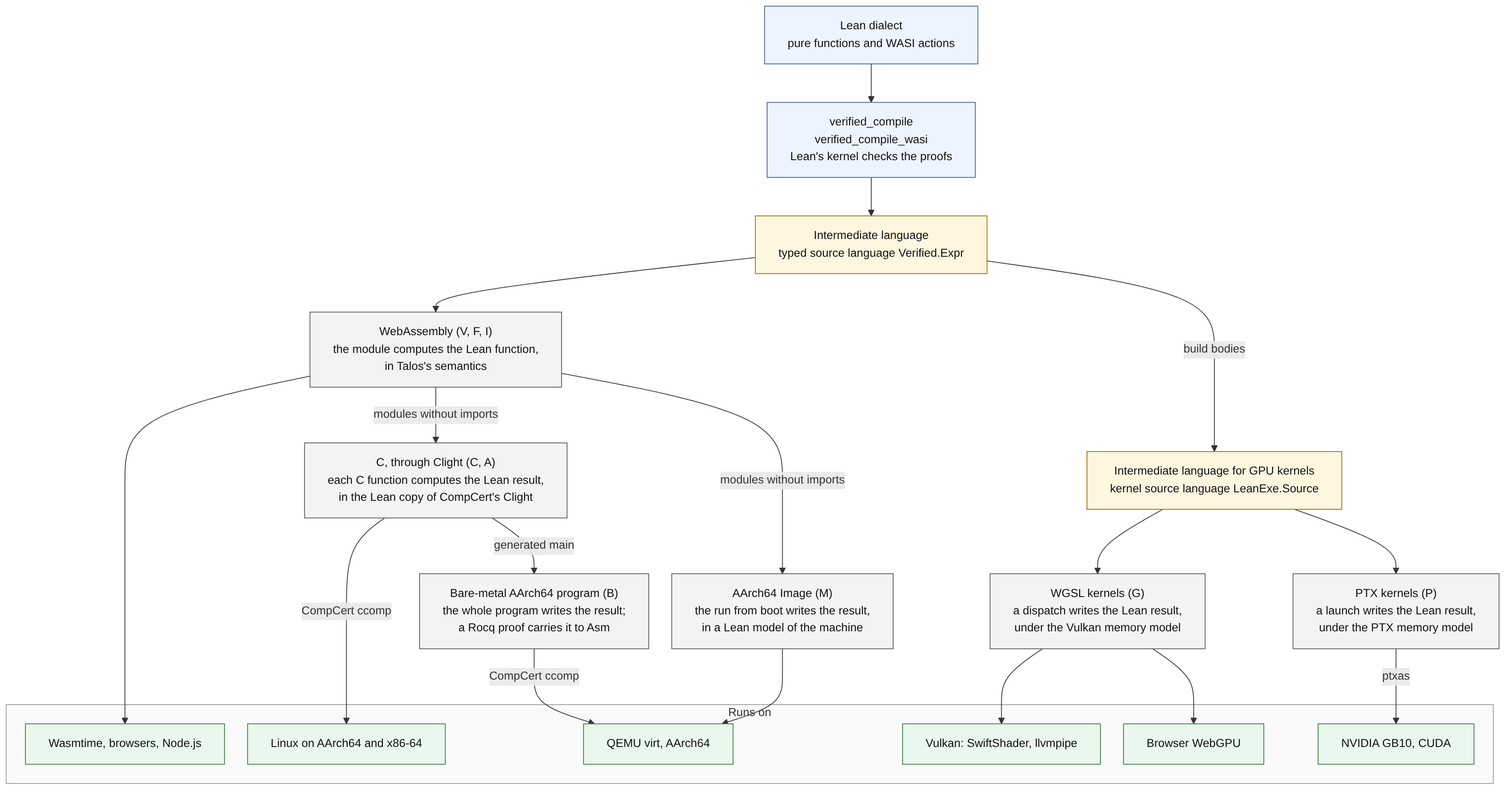
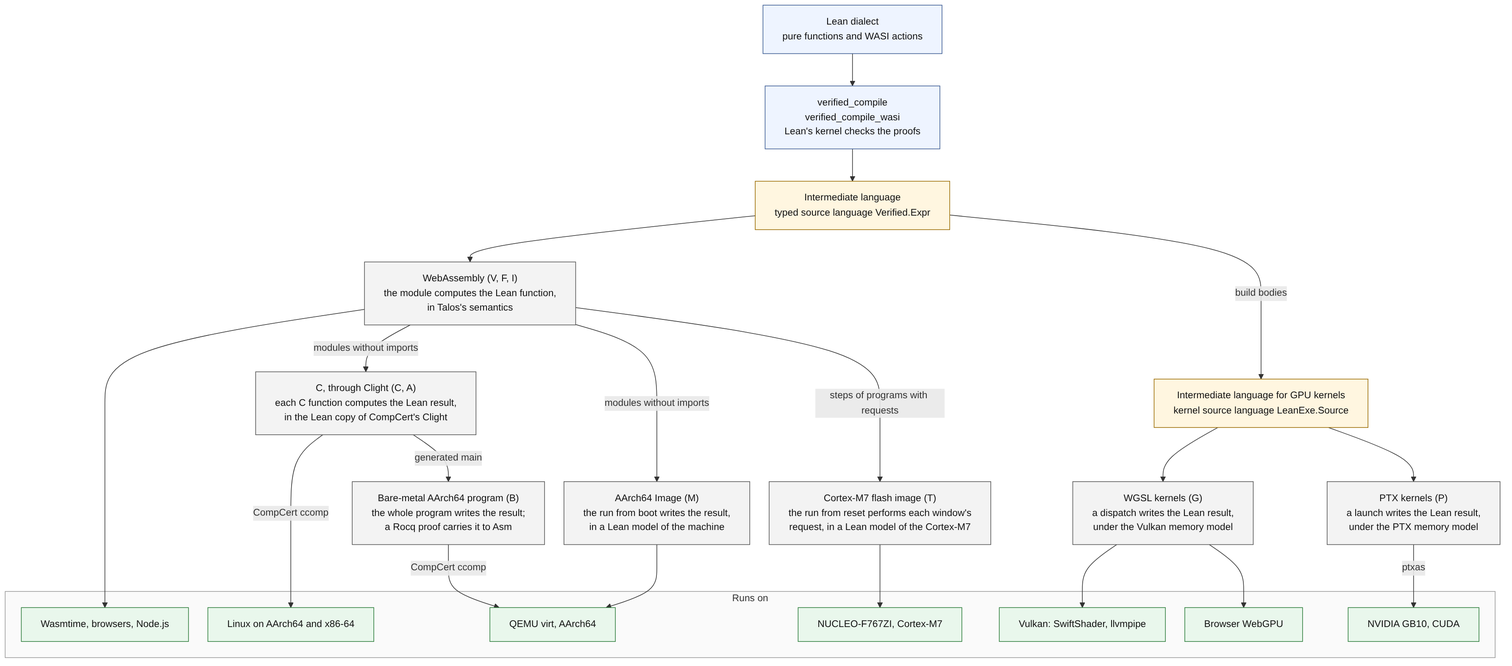
Cover the Cortex-M7 back end in the README and diagrams

diff --git a/README.md b/README.md
@@ -6,7 +6,7 @@ LeanExe compiles functions written in a restricted dialect of Lean to WebAssembl
 
 `verified_compile` reflects a Lean definition into a typed intermediate language, and each backend produces code together with a theorem that the code computes the definition's result.  The theorems hold in Talos's WebAssembly semantics, in the Lean copy of CompCert's Clight, in a Lean model of an AArch64 machine from boot, in a Lean model of a Cortex-M7 from reset, and under statements of the Vulkan and PTX memory models, and a Rocq proof carries the theorem of a bare-metal C program to CompCert's Asm.  The letters are the artifact codes of [the table below](#artifacts), and [the overview](#overview) shows the full toolchain.
 
-The compiler has one correctness theorem for every typed source program that it accepts.  The WebAssembly theorems hold in [Talos](https://github.com/cajal-technologies/talos)'s semantics, and an execution theorem may allow a trap at `unreachable`, which the theorem `p.f.trapFree` excludes under its allocation and call-depth premises.  The compiled modules also translate to a subset of [CompCert](https://compcert.org/compcert-C.html)'s C, with a theorem about each C function in the Lean copy of CompCert's Clight, and CompCert compiles the C for x86-64 and AArch64, under an operating system or on bare-metal AArch64.  A bare-metal C program has a theorem about the whole program, which a Rocq proof transfers to CompCert's Asm, and an executable under an operating system also depends on a C host that no theorem covers.  A separate back end compiles the same modules to AArch64 machine code without C and writes an arm64 Image whose theorem covers the whole run from boot, the startup included, in a Lean model of the machine, and Lean proofs compare the model's integer instructions with traces of Arm's specification from Isla.  Another back end without C compiles the step functions of programs with requests to Thumb-2 machine code for the NUCLEO-F767ZI board and writes a flash image whose theorem covers every window of the run from reset in a Lean model of the Cortex-M7.  Array builds compile to WGSL and PTX kernels with theorems under statements of the Vulkan and PTX memory models, and Lean actions with stdin, stdout, stderr, and exit compile to WASI Preview 1 modules.
+The compiler has one correctness theorem for every typed source program that it accepts.  The WebAssembly theorems hold in [Talos](https://github.com/cajal-technologies/talos)'s semantics, and an execution theorem may allow a trap at `unreachable`, which the theorem `p.f.trapFree` excludes under its allocation and call-depth premises.  The compiled modules also translate to a subset of [CompCert](https://compcert.org/compcert-C.html)'s C, with a theorem about each C function in the Lean copy of CompCert's Clight, and CompCert compiles the C for x86-64 and AArch64, under an operating system or on bare-metal AArch64.  A bare-metal C program has a theorem about the whole program, which a Rocq proof transfers to CompCert's Asm, and an executable under an operating system also depends on a C host that no theorem covers.  A separate back end compiles the same modules to AArch64 machine code without C and writes an arm64 Image whose theorem covers the whole run from boot, the startup included, in a Lean model of the machine, and Lean proofs compare the model's instruction forms with traces of Arm's specification from Isla, with the results of Arm's floating-point functions taken as equations with Talos's IEEE 754 functions.  Another back end without C compiles the step functions of programs with requests to Thumb-2 machine code for the NUCLEO-F767ZI board and writes a flash image whose theorem covers every window of the run from reset in a Lean model of the Cortex-M7.  Array builds compile to WGSL and PTX kernels with theorems under statements of the Vulkan and PTX memory models, and Lean actions with stdin, stdout, stderr, and exit compile to WASI Preview 1 modules.
 
 ## Background
 
@@ -27,11 +27,11 @@ These days rewriting a large codebase in a different source language is almost a
 
 The C backend translates a module without imports to the Lean copy of CompCert's Clight, where `translate_correct` gives each C function a theorem from the module's theorem.  CompCert compiles the printed C only after `clightgen` reads it back as the same Clight program.  For bare-metal AArch64, `bare_program` adds a generated `main` and proves a theorem about the whole program, which a Rocq proof carries to CompCert's Asm.  The GPU backends lower array builds to the kernel source language and translate them to WGSL and PTX, with theorems about every consistent execution under statements of the Vulkan and PTX memory models, and a proved parser reads each printed kernel back.
 
-The AArch64 back end takes a module without imports to machine code directly.  `genProgram` generates the module's instructions, and the simulation theorem `program_sim` relates their run in a Lean model of an AArch64 machine to the module's run in the reference interpreter.  `genImage` places the code between a startup routine and a translation table in an arm64 Image, and `image_run_at` proves, from a boot state whose memory holds the Image at any base in RAM that is a multiple of 4096, that the machine reaches PSCI SYSTEM_OFF after writing the function's value to the UART.  Lean's kernel compares the written file with `genImage`'s output, and Lean proofs compare the model's integer instruction forms with traces of Arm's specification that Isla produces, while tests alone support the floating-point forms.  [The AArch64 document](docs/a64-bare-metal.md) gives each link of the chain and its evidence.
+The AArch64 back end takes a module without imports to machine code directly.  `genProgram` generates the module's instructions, and the simulation theorem `program_sim` relates their run in a Lean model of an AArch64 machine to the module's run in the reference interpreter.  `genImage` places the code between a startup routine and a translation table in an arm64 Image, and `image_run_at` proves, from a boot state whose memory holds the Image at any base in RAM that is a multiple of 4096, that the machine reaches PSCI SYSTEM_OFF after writing the function's value to the UART.  Lean's kernel compares the written file with `genImage`'s output, and Lean proofs compare every instruction form on which a program's model runs with traces of Arm's specification that Isla produces.  The proofs of the floating-point forms take as hypotheses equations between the results of Arm's floating-point functions and Talos's IEEE 754 functions, and those equations rest on tests and on proofs over Sail's Lean translation of the functions, which `tools/sail/check.sh` checks outside the repository's build.  [The AArch64 document](docs/a64-bare-metal.md) gives each link of the chain and its evidence.
 
-The Cortex-M7 back end takes the step function of a program with requests to Thumb-2 machine code for the NUCLEO-F767ZI's STM32F767ZI.  `genProgram` of `LeanExe/M7` generates a `main` that calls the step forever and performs each request as one device access, `step_call` relates the generated step's run in a Lean model of the Cortex-M7 to its run in the reference interpreter, and `board_run` proves, from every state that reset gives, that the image performs the board's initialization and then the requested accesses of every window.  Lean's kernel compares each flash image with the generator's output, Lean proofs compare every instruction form of the model with Isla's traces of Arm's A-profile specification in AArch32 Thumb state, and co-simulation on QEMU and on the board tests the model.  [The Cortex-M7 document](docs/m7-bare-metal.md) gives each link of the chain and its evidence.
+The Cortex-M7 back end takes the step function of a program with requests to Thumb-2 machine code for the NUCLEO-F767ZI's STM32F767ZI.  `genProgram` of `LeanExe/M7` generates a `main` that calls the step forever and performs each request as one device access, `step_call` relates the generated step's run in a Lean model of the Cortex-M7 to its run in the reference interpreter, and `board_run` proves, from every state that reset gives, that the image performs the board's initialization and then the requested accesses of every window, as `areaBoard_run` does for a program with linear memory, whose image first sets up the area of the module's globals and memory in DTCM.  Lean's kernel compares each flash image with the generator's output, Lean proofs compare every instruction form of the model with Isla's traces of Arm's A-profile specification in AArch32 Thumb state, and co-simulation on QEMU and on the board tests the model.  [The Cortex-M7 document](docs/m7-bare-metal.md) gives each link of the chain and its evidence.
 
-Applying the theorems on the platforms rests on the items of [the trusted-base document](docs/trusted-base.md), among them Talos's semantics, the decoder, the C host, the AArch64 machine model, `ptxas`, and the GPU drivers.  The Mermaid sources of the diagrams are [`docs/toolchain.mmd`](docs/toolchain.mmd) and [`docs/toolchain-summary.mmd`](docs/toolchain-summary.mmd).  `mmdc -i docs/toolchain.mmd -o docs/toolchain.png -b white -s 2 -w 1800`, from `@mermaid-js/mermaid-cli`, renders the full diagram, and the same options render the summary.  Where Puppeteer's own browser does not run, as on AArch64 Linux, `-p` names a Puppeteer configuration whose `executablePath` is an installed Chromium.
+Applying the theorems on the platforms rests on the items of [the trusted-base document](docs/trusted-base.md), among them Talos's semantics, the decoder, the C host, the AArch64 machine model with its floating-point equations, `ptxas`, and the GPU drivers.  Applying the Cortex-M7 image theorems on the board rests on the model of the Cortex-M7, the reading of the M-profile pseudocode against the A-profile's, the reader of the image file, reset, which must be a power-on reset or an NRST reset with the debug registers at their power-on values, USART3 and the ST-LINK's virtual COM port, and the timing of each window, whose margins rest on cycle measurements.  The Mermaid sources of the diagrams are [`docs/toolchain.mmd`](docs/toolchain.mmd) and [`docs/toolchain-summary.mmd`](docs/toolchain-summary.mmd).  `mmdc -i docs/toolchain.mmd -o docs/toolchain.png -b white -s 2 -w 1800`, from `@mermaid-js/mermaid-cli`, renders the full diagram, and the same options render the summary.  Where Puppeteer's own browser does not run, as on AArch64 Linux, `-p` names a Puppeteer configuration whose `executablePath` is an installed Chromium.
 
 ## Demos
 
@@ -70,7 +70,7 @@ Each artifact has a code, which [the algorithm index](index.md) uses to list the
 | A | C file without the alignment test | `native-verified build --aligned`, which refuses with status 4 a module whose theorems do not cover that translation | `p.f.nativeAligned`, stated as `NativeAlignedImpl` or `NativeTablesAlignedImpl`, from an aligned input, in the Lean copy of Clight | Linux on AArch64 and on x86-64 | [SHA-256](Library/Hashing/Sha256/Compiled.lean), [SHA-3](Library/Hashing/Sha3/Compiled.lean), [CRC](Library/Hashing/Crc/Compiled.lean), [insertion sort](Library/Sorting/Insertion/Compiled.lean), [Euler solvers](Demos/Euler/Verified.lean), and [binary32 GPT-2](Demos/Gpt32/Verified.lean) |
 | B | Bare-metal AArch64 image | `native-bare emit` or `emit-in` writes the translation with a generated `main`, `native-bare check` or `check-in` compares the Clight of `clightgen` with the whole program, and [the bare-metal build](tools/baremetal/build.sh) links it with the startup code | `p.f.program`, which `bare_program` proves, and `sha256_input`: the whole program terminates with the stores of the result's bytes to the UART, in the Lean copy of Clight, and [the Rocq composition](rocq/Clight2Asm.v) transfers such a termination to Asm.  `p.f.program` also allows the code of `unreachable` with no output when the entry may abort, and `sha256_input` allows it when `alloc` traps. | QEMU's `virt` machine under TCG and under KVM | [GCD](tests/TestSupport/Bare/Gcd.lean), [CRC-32, SHA-256, Euler, and a deep recursion](tests/TestSupport/Bare/Theorems.lean), and [SHA-256 of a loaded message](tests/TestSupport/Bare/Input.lean) |
 | M | AArch64 Image of the direct back end | `a64-programs emit` writes `NAME.img`, the bytes that `genImage` gives for the module, the entry, and the arguments: the arm64 header, the startup, the program's code, and the translation table | Image theorems from `image_run_at`, such as `TestSupport.A64.ImageFiles.gcd`: from a boot state whose memory holds the file's bytes, which the kernel compares with `genImage`'s output, at a base in the RAM GiB that is a multiple of 4096, the machine reaches PSCI SYSTEM_OFF after writing to the UART the encoding of the Lean function's value and the status 0, or a trap's status alone where the theorem allows one, in the Lean model of the boot machine | QEMU's `virt` machine under TCG and under KVM | [GCD by a loop and by recursion, CRC-32, SHA-256, a deep recursion, and the CIC filter](tests/TestSupport/A64/ImageFiles.lean) |
-| T | Flash image of the Cortex-M7 back end | `m7-windows board`, `gateway-board`, or `crc-board` writes `NAME.bin`, the bytes of the vector table, the setup of the area of a program with linear memory, the initialization, `main`, the step's functions, and `udivmod64` that the generator gives for the module, the step, and the initial state | `echo_board`, `gw_board`, `gw_board_prefix`, `crc_board`, and `crc_board_prefix`: from every state that reset gives while the flash holds the file's bytes, which the kernel compares with the generator's output, the model of the Cortex-M7 performs the initialization's accesses and then those of every window of the step, and never stops, the gateway's bytes written to `USART_TDR` begin its output records, and the CRC-32 step's begin the low bytes of the CRC-32 of the bytes read | The NUCLEO-F767ZI, and QEMU's `mps2-an500` for the images of `echo_qemu`, `gw_qemu`, and `crc_qemu` | [The echo](tests/TestSupport/M7/NucleoFile.lean), [the energy controller's gateway](tests/TestSupport/M7/GwBoardFile.lean), and [the CRC-32 step](tests/TestSupport/M7/CrcBoardFile.lean) |
+| T | Flash image of the Cortex-M7 back end | `m7-windows board`, `gateway-board`, `crc-board`, or `sha-board` writes `NAME.bin`, the bytes of the vector table, the setup of the area of a program with linear memory, the initialization, `main`, the step's functions, and `udivmod64` that the generator gives for the module, the step, and the initial state | `echo_board`, `gw_board`, `gw_board_prefix`, `crc_board`, `crc_board_prefix`, and `sha_board`: from every state that reset gives while the flash holds the file's bytes, which the kernel compares with the generator's output, the model of the Cortex-M7 performs the initialization's accesses and then those of every window of the step, and never stops, the gateway's bytes written to `USART_TDR` begin its output records, the CRC-32 step's begin the low bytes of the CRC-32 of the bytes read, and the SHA-256 step's, for fewer than 2^62 windows, begin the SHA-256 digests of FIPS 180-4 of the prefixes of the blocks of 64 bytes read | The NUCLEO-F767ZI, and QEMU's `mps2-an500` for the images of `echo_qemu`, `gw_qemu`, `crc_qemu`, and `sha_qemu` | [The echo](tests/TestSupport/M7/NucleoFile.lean), [the energy controller's gateway](tests/TestSupport/M7/GwBoardFile.lean), [the CRC-32 step](tests/TestSupport/M7/CrcBoardFile.lean), and [the SHA-256 step](tests/TestSupport/M7/ShaBoardFile.lean) |
 | G | WGSL kernel | [`tools/EmitWgsl.lean`](tools/EmitWgsl.lean) prints the kernel after checking that the parser reads the text back | Dispatch theorem, such as `scale32_dispatch` or `gpu.dispatch_eq`: the dispatch writes the Lean function's result and is race-free, in the WGSL device model with strict binary32 arithmetic, and `Dispatch.executions` gives the same output words for every consistent execution under a statement of the Vulkan memory model | wgpu-native through `build/tools/leanexe-webgpu-host` on SwiftShader and llvmpipe, and WebGPU in a browser | [Binary32 example](Examples/Binary32/README.md), [binary32 GPT-2](Demos/Gpt32/README.md), and [the verified kernel examples](Verified/Examples/Wgsl.lean) |
 | P | PTX kernel | [`tools/EmitPtx.lean`](tools/EmitPtx.lean) prints the kernel after checking that the parser reads the text back, and `ptxas -O3 --fmad=false` compiles it | `Kernel.executions_eq` for a kernel of the verified compiler, such as `words_executions`, and `addOne_executions`: in every consistent execution under a statement of the PTX memory model, no access of a thread is in a data race, every thread ends, and the copy back reads the count followed by the result: the source array's encoded elements for a compiled kernel, and each input word plus one for the add-one kernel | `build/tools/leanexe-cuda-host` on an NVIDIA GB10 | [the PTX kernel examples](Verified/Examples/Ptx.lean), [the binary32 PTX kernels](Examples/Binary32/CompiledPtx.lean), [the GPT-2 PTX kernels](Demos/Gpt32/VerifiedPtx.lean), and [the add-one kernel](LeanExe/PTX/AddOne.lean) |
 
@@ -78,7 +78,7 @@ Each artifact has a code, which [the algorithm index](index.md) uses to list the
 
 | Property | Theorems | Artifacts |
 |---|---|---|
-| Specification theorems: accuracy bounds, equality with transcriptions of FIPS 180-4, FIPS 198-1, FIPS 202, ITU-T V.42, RFC 3720, the SipHash paper, and the xxHash specification, generator periods, and the safety and optimality of the drone and slew planners | Such as `exp_bytes_accuracy`, `sha256_call`, `lcg_advance`, `drone_safe`, and `plan_safe` | V: the theorem composes, as `sha256_call` composes `compiled.sha256.implements` with `sha256_spec` and `gcd_call` composes `compiled.gcd.pure` with `gcd_eq`.  `drone_safe` states the safety of the Lean function's result for valid nonempty terrain together with the module's execution theorem, which allows a trap, so the safety holds of every result that the module returns, and `plan_safe` states the slew planner's safety for the Lean function.  F: the combination of `sha256_file_decode` with `sha256_call`.  C and A: the combination of `compiled.sha256.native` or `compiled.sha256.nativeAligned` with `sha256_spec`.  B: `sha256_input` composes `compiled.sha256.native` with `sha256_bytes` into the bytes of `SHS.SHA256.Impl.sha256`, or the code of `unreachable` with no output when `alloc` traps, and its combination with `SHS.Equiv.SHA256.sha256_correct` gives the digest of the transcription of FIPS 180-4.  G: `generate_host` composes the kernels' dispatch theorems into the scores of `step32`.  M: `cic_outputs` composes the CIC Image's theorem with `cic_toList`, `cascade_eq_outputs`, and `toInt_cascade_of_width` into the filter's outputs over ℤ, as its specification defines them. |
+| Specification theorems: accuracy bounds, equality with transcriptions of FIPS 180-4, FIPS 198-1, FIPS 202, ITU-T V.42, RFC 3720, the SipHash paper, and the xxHash specification, generator periods, and the safety and optimality of the drone and slew planners | Such as `exp_bytes_accuracy`, `sha256_call`, `lcg_advance`, `drone_safe`, and `plan_safe` | V: the theorem composes, as `sha256_call` composes `compiled.sha256.implements` with `sha256_spec` and `gcd_call` composes `compiled.gcd.pure` with `gcd_eq`.  `drone_safe` states the safety of the Lean function's result for valid nonempty terrain together with the module's execution theorem, which allows a trap, so the safety holds of every result that the module returns, and `plan_safe` states the slew planner's safety for the Lean function.  F: the combination of `sha256_file_decode` with `sha256_call`.  C and A: the combination of `compiled.sha256.native` or `compiled.sha256.nativeAligned` with `sha256_spec`.  B: `sha256_input` composes `compiled.sha256.native` with `sha256_bytes` into the bytes of `SHS.SHA256.Impl.sha256`, or the code of `unreachable` with no output when `alloc` traps, and its combination with `SHS.Equiv.SHA256.sha256_correct` gives the digest of the transcription of FIPS 180-4.  G: `generate_host` composes the kernels' dispatch theorems into the scores of `step32`.  M: `cic_outputs` composes the CIC Image's theorem with `cic_toList`, `cascade_eq_outputs`, and `toInt_cascade_of_width` into the filter's outputs over ℤ, as its specification defines them.  T: `sha_board` states that the bytes that the SHA-256 step's image writes begin the digests that the transcription of FIPS 180-4 gives for the blocks read, through `shaSpec_fips`, which applies `sha256_spec`, and `crc_board_prefix` that the CRC-32 step's bytes begin the low bytes of the CRC-32 that the transcription of ITU-T V.42 gives for the bytes read, through `crc_replies`. |
 | Allocation bounds | `p.f.bound` with its equation `p.f.bound_eq`, closed forms such as `sortInsert_bound`, `pushSquare_bound`, `jump_bound`, and the Euler solvers' `solve_bound`, the memory caps of the Euler and drone call theorems, and the WASI processes' allocation charges | V: `p.f.trapFree` takes room for the bound as a premise.  `euler_solve_call` and `drone_compute_call` state that room as a memory cap in pages: `solvePages n`, at most 1,563 for every grid, for the Euler solvers, from the store in which the module starts, and 35 for the drone planner, with `top` at most 8192.  `increment_call` takes room for `top` to rise by 120 bytes, the closed form `compute_bound` of the bound, from any store with the allocator invariant.  I: the running sums prove the allocation charges of each process step from limits on their input.  F: the combination of `NAME_file_decode` with `p.f.trapFree`, for the `verified_compile` modules of the file-theorem registry. |
 | Return without a trap | `p.f.trapFree`, `euler_solve_call`, `drone_compute_call`, and `increment_call`, the WASI theorems `p.f.total`, `p.total`, and `compiled_process_total_run`, and their applications `retain_total`, `initial_terminates_integer`, and `initial_terminates_fp` | V: under room for `p.f.bound` and the depth limit, and for the Euler solvers and the drone planner under the memory caps of `euler_solve_call` and `drone_compute_call`, and for the increment example under room for 120 bytes in `increment_call`.  I: under a typed resource-prefix bound and assumptions about the host operations that a run reaches.  C and A: `p.f.native` and `p.f.nativeAligned` state that the C function terminates, with no trap code for a function whose abort flag is false, as `loop_native_init` states for GCD from the state that `lx_init` leaves.  For a function that may abort, `ImplementsA.nativeImpl` applied to `p.f.trapFree` proves that conclusion under the premises of `p.f.trapFree`, and no generated theorem states it.  B: `p.f.program` states that the whole program terminates, with result 0 for an entry whose abort flag is false, as the GCD program's theorem does.  M: the Image theorems of GCD by a loop, CRC-32, and SHA-256 allow the result alone, from `p.f.trapFree` and a stack bound within the stack's room, GCD by recursion also allows status 4, an overflow of the stack, and the deep recursion statuses 1 and 4.  F: the combination of `NAME_file_decode` with `p.f.trapFree`, as for the allocation bounds. |
 
@@ -211,18 +211,26 @@ The back end in `LeanExe/A64` generates machine code from a module without impor
 
 ### Cortex-M7 images
 
-The back end in `LeanExe/M7` generates Thumb-2 code from the step function of a program with requests, places it after a vector table and the board's initialization in a flat image of the NUCLEO-F767ZI's flash, and proves the run from reset in a Lean model of the Cortex-M7.  No C compiler, assembler, or linker takes part, so an image's theorem trusts the model, the reading of the M-profile pseudocode against the A-profile specification that Isla traces, the reader of the image file, reset, and the board.  Each theorem allows no trap: the step's compiler theorem excludes the traps, and the stack's bound fits in DTCM.  [The Cortex-M7 document](docs/m7-bare-metal.md) states the model, the generator, the simulation theorem, the loop, reset, the images, the final theorems, the trusted base, the Isla check, the tests, and the timing.
+The back end in `LeanExe/M7` generates Thumb-2 code from the step function of a program with requests, places it in a flat image of the NUCLEO-F767ZI's flash after a vector table, the setup of the area of a program with linear memory, and the board's initialization, and proves the run from reset in a Lean model of the Cortex-M7.  No C compiler, assembler, or linker takes part, so an image's theorem trusts the model, the reading of the M-profile pseudocode against the A-profile specification that Isla traces, the reader of the image file, reset, USART3 and the ST-LINK's virtual COM port, and the timing of each window.  Each theorem allows no trap: the step's compiler theorem excludes the traps, and the stack's bound fits in DTCM.  [The Cortex-M7 document](docs/m7-bare-metal.md) states the model, the generator, the simulation theorem, the loop, reset, the area's setup, the images, the final theorems, the trusted base, the Isla check, the tests, the timing, and the limits.
 
-| Program | Step and initial state | Runs |
-|---|---|---|
-| Echo | `usart3Tick` from 3, which answers each byte with bit 5 flipped | QEMU, Renode, and the board |
-| Energy controller's gateway | `gwTickUsart3` from `gwInit`, which frames the gateway with records of 18 and 6 words | QEMU, Renode, and the board, a simulated day of 1,440 ticks with output records equal to native Lean's |
+| Program | Step and initial state | Theorems | Runs on the board |
+|---|---|---|---|
+| Echo | `usart3Tick` from 3, which answers each byte with bit 5 flipped | `echo_board`, `echo_board_runs`, and `echo_board_steps` of [`NucleoFile.lean`](tests/TestSupport/M7/NucleoFile.lean) | 644 bytes in lockstep and bursts of 2, 16, 322, and 65,536 bytes, every reply the byte sent with bit 5 flipped, after a reset over SWD and after a power-on with no SWD session |
+| Energy controller's gateway | `gwTickUsart3` from `gwInit`, which frames the gateway with records of 18 and 6 words | `gw_board`, `gw_board_runs`, `gw_board_steps`, `gw_board_prefix`, and `gw_board_bytes` of [`GwBoardFile.lean`](tests/TestSupport/M7/GwBoardFile.lean) | A simulated day of 1,440 ticks with output records equal to native Lean's, after a reset over SWD and after the reset of `stlink_nrst.py` |
+| CRC-32 step | `crcUsart3Tick` from `crcInit`, which looks up CRC-32's table in linear memory and answers each byte with the low byte of the CRC-32 of the bytes received so far | `crc_board`, `crc_board_runs`, `crc_board_steps`, and `crc_board_prefix` of [`CrcBoardFile.lean`](tests/TestSupport/M7/CrcBoardFile.lean) | 67,084 bytes, every reply the low byte of `zlib.crc32` of the bytes sent so far, after a reset over SWD and after a power-on with no SWD session |
+| SHA-256 step | `shaUsart3Tick` from `shaInit`, which holds SHA-256's round constants in linear memory and answers each block of 64 bytes with the SHA-256 digest of every byte received so far | `sha_board`, `sha_board_bytes`, and `sha_board_runs` of [`ShaBoardFile.lean`](tests/TestSupport/M7/ShaBoardFile.lean) | 64 blocks in lockstep, every answer equal to `hashlib.sha256` of the bytes sent so far, after a reset over SWD and after the reset of `stlink_nrst.py` |
 
-`tests/baremetal/m7-image.sh`, `tests/baremetal/m7-qemu.sh`, and `tests/baremetal/m7-board.sh check` have the kernel check the images and their theorems.  `m7-qemu.sh` then runs the QEMU images with the far end of the UART, and `m7-board.sh` runs the board's images in Renode and on the board and runs the co-simulation of the model's forms on the board.  `tests/isla/m7-theorems.sh` checks the proofs that compare the model's forms with the traces that `tests/isla/m7-traces.sh` produces, as [the Isla check](docs/m7-bare-metal.md#the-isla-check) describes.
+For every sequence of the values that device reads return and every number of windows, below 2^62 for the SHA-256 step, the board's theorems state that the model reaches the initialization's accesses followed by those of the windows, and the theorems whose names end in `_runs` state that the model never stops.  `gw_board_prefix`, `crc_board_prefix`, and `sha_board` add that the bytes written to `USART_TDR` begin the gateway's output records for the records read, the low bytes of the CRC-32 of the prefixes of the bytes read, and the SHA-256 digests of the prefixes of the blocks read.  The generator also writes images of the steps `cmsdkTick`, `gwTick`, `crcCmsdkTick`, and `shaCmsdkTick` for QEMU's `mps2-an500`, whose theorems `echo_qemu`, `gw_qemu`, `crc_qemu`, and `sha_qemu` have the same form, and Renode's model of the board runs the board's images.
+
+The theorems hold of the processor under the run conditions that `LeanExe/M7/Proof/Board.lean` and the theorem files state: a power-on reset, or an NRST reset with DHCSR, DEMCR, the FPB, the DWT, the ITM, and the DBGMCU registers at their power-on values, with BOOT0 low and BOOT_ADD0 `0x0080`, software watchdogs, and no interrupt, NMI, debug halt, debugger access, or DMA during the run.  The reset of `st-flash` leaves DHCSR's C_DEBUGEN set and `DBGMCU_APB1_FZ` at `0x1800`, while `tools/baremetal/stlink_nrst.py` sets the debug registers that a system reset keeps to their power-on values over SWD and then drives NRST, and a diagnostic image read those values after each of nine such resets.  The runs of the echo and the CRC-32 step from a power-on with no SWD session, and those of the gateway and the SHA-256 step after the reset of `stlink_nrst.py`, meet the conditions, and the runs after the reset of `st-flash` do not.
+
+USART3 holds one received byte, so each window that runs while bytes may arrive must end in time for the next byte at 4,800 baud.  `echo_board_steps`, `gw_board_steps`, and `crc_board_steps` bound every window by 1,440, 17,553, and 1,482 instructions of the model, but no theorem bounds the SHA-256 step's windows or any window's time, so the margins rest on cycle measurements on the board.  The bounds keep the windows in time at up to 5.78 cycles an instruction for the echo, 5.62 for the CRC-32 step, and 0.94 for the gateway, and the board measured 0.99 to 1.13 for the first two and about 0.65 for the gateway, while the SHA-256 step's longest such window took 1,445 cycles, about 9% of half a byte time.
+
+`tests/baremetal/m7-image.sh`, `tests/baremetal/m7-qemu.sh`, and `tests/baremetal/m7-board.sh check` have the kernel check the images and their theorems.  `m7-qemu.sh` then runs the QEMU images with the far end of the UART, and `m7-board.sh` runs the board's images in Renode and on the board, after the reset of `st-flash` with `run`, after that of `stlink_nrst.py` with `nrst`, or from the power-on of a replug with `host`, and runs the co-simulation of the model's forms on the board.  `tests/isla/m7-theorems.sh` checks the proofs that compare the model's forms with the traces that `tests/isla/m7-traces.sh` produces, as [the Isla check](docs/m7-bare-metal.md#the-isla-check) describes.
 
 ## Trusted base
 
-[The trusted-base document](docs/trusted-base.md) lists, for each artifact code, what its theorem trusts, how the project checks each item, and where each item is stated, and it gathers the definitions that the statements depend on.  Every theorem trusts Lean's kernel, at the release candidate 4.34.0-rc2, whose kernel rejects a reproduction of a defect that earlier kernels accepted, and the core definitions that give a Lean program its meaning.  The WebAssembly theorems also trust Talos's execution semantics and the binary decoder, and a file without a file theorem also trusts Lean's compiled code for its emission.  The native theorems use Talos only as an intermediate language and trust the Lean copy of CompCert 3.18's Clight, which review, differential tests, and the `clightgen` comparison of each build check, and the bare-metal theorems add the Rocq composition, the startup code, the stack-bound tool, and the machine.  The theorems of AArch64 Images trust no compiler, assembler, or linker: they trust the model of the boot machine, whose instruction forms Lean proofs compare with Isla's traces of Arm's specification, the reader of the image file, QEMU's loader, and the machine.  The theorems of Cortex-M7 images trust the model of the Cortex-M7, whose forms Lean proofs compare with Isla's traces of Arm's A-profile specification, a reading of the M-profile pseudocode against the A-profile's, the reader of the image file, reset, and the board.  The WASI theorems trust a model of the Preview 1 host.  The WGSL theorems trust an invocation semantics, a statement of the Vulkan memory model, and strict binary32 arithmetic, and the PTX theorems trust a thread semantics and a statement of the PTX memory model.  Both GPU targets also assume that no thread on the device runs past a point where its semantics stops.  Every specification theorem trusts its transcription of a standard or its definitions from Mathlib.
+[The trusted-base document](docs/trusted-base.md) lists, for each artifact code, what its theorem trusts, how the project checks each item, and where each item is stated, and it gathers the definitions that the statements depend on.  Every theorem trusts Lean's kernel, at the release candidate 4.34.0-rc2, whose kernel rejects a reproduction of a defect that earlier kernels accepted, and the core definitions that give a Lean program its meaning.  The WebAssembly theorems also trust Talos's execution semantics and the binary decoder, and a file without a file theorem also trusts Lean's compiled code for its emission.  The native theorems use Talos only as an intermediate language and trust the Lean copy of CompCert 3.18's Clight, which review, differential tests, and the `clightgen` comparison of each build check, and the bare-metal theorems add the Rocq composition, the startup code, the stack-bound tool, and the machine.  The theorems of AArch64 Images trust no compiler, assembler, or linker: they trust the model of the boot machine, whose instruction forms Lean proofs compare with Isla's traces of Arm's specification, the equations between Arm's floating-point functions and Talos's IEEE 754 functions, which rest on tests and on proofs over Sail's Lean translation checked outside the repository's build, the reader of the image file, QEMU's loader, and the machine.  The theorems of Cortex-M7 images trust the model of the Cortex-M7, whose forms Lean proofs compare with Isla's traces of Arm's A-profile specification, a reading of the M-profile pseudocode against the A-profile's, the reader of the image file and the flash's copy of its bytes, and reset from the vector table that BOOT_ADD0 names.  Applying them on the board also rests on the run conditions, among them a power-on reset or an NRST reset with the debug registers at their power-on values, which `tools/baremetal/stlink_nrst.py` gives, on the initialization's effect on USART3, on USART3 and the ST-LINK's virtual COM port, which must deliver every byte once and in order, and on the timing of each window at 4,800 baud, whose margins rest on cycle measurements, since no proof bounds time.  The WASI theorems trust a model of the Preview 1 host.  The WGSL theorems trust an invocation semantics, a statement of the Vulkan memory model, and strict binary32 arithmetic, and the PTX theorems trust a thread semantics and a statement of the PTX memory model.  Both GPU targets also assume that no thread on the device runs past a point where its semantics stops.  Every specification theorem trusts its transcription of a standard or its definitions from Mathlib.
 
 ## Documentation
 
@@ -235,7 +243,7 @@ The back end in `LeanExe/M7` generates Thumb-2 code from the step function of a 
 | [Wasm-to-C translator design](docs/native-translator.md) | C subset and its Lean semantics, translation, `p.f.native`, translation without the alignment test, trusted base of the native path, and milestones. |
 | [Bare-metal design](docs/native-bare-metal.md) | Generated `main`, whole-program theorem, Rocq step to Asm, startup code, inputs, stack bound, trusted base, and tests. |
 | [AArch64 bare-metal path](docs/a64-bare-metal.md) | Code generator, simulation theorem, machine model, encoding, image, boot protocol, startup proof, Isla check, trusted base, and final theorem. |
-| [Cortex-M7 back end](docs/m7-bare-metal.md) | Machine model, encoding, code generator, simulation theorem, reactive loop, reset and initialization, images, final theorems, trusted base, Isla check, co-simulation, board runs, and timing. |
+| [Cortex-M7 back end](docs/m7-bare-metal.md) | Machine model, encoding, code generator, simulation theorem, reactive loop, reset and initialization, the area's setup, resets on the board, images, final theorems, trusted base, Isla check, co-simulation, board runs, timing, and limits. |
 | [Design document](docs/design.md) | Architecture, decisions, proof scope, tests, and open work. |
 | [Trusted base](docs/trusted-base.md) | What each kind of artifact's theorem trusts, how each item is checked, and the definitions that statements depend on. |
 | [Status](STATUS.md) | Commit, dates, toolchain, and steps of the last full check, with each step's status, duration, and counts, and what did not run. |
@@ -294,7 +302,7 @@ tools/leanrun --timeout 60m lake build Verified
 
 [The verified driver](tests/verified/run.sh) writes modules to `build/verified/` and compares them with native Lean on [the shared case corpus](Verified/Examples/Cases.lean), then checks numerical file theorems and accuracy tests.  [The binary64 GPT driver](tests/gpt/run.sh), the other scripts of `tests/gpt/`, [the drone driver](tests/drone/run.sh), [the level sessions](tests/modules/chunks.py), [the SplitMix64 comparison](tests/prng/compare.py), and [the GPT-2 text generator](tools/gpt2.py) run the verified modules in `build/verified/` unless given the path of another module.  `tests/wasi/run.sh` checks the WASI proofs, reflected modules, byte ownership, and native and WebAssembly I/O, and its `--foundations-only` form runs the proof and semantic checks without the external-engine tests.
 
-The native drivers need CompCert 3.18's `ccomp` and `clightgen`, built from one source tree for the target, which the variables `CCOMP` and `CLIGHTGEN` name when they are not on the search path.  The bare-metal drivers also need `qemu-system-aarch64`, and the Cortex-M7 drivers `qemu-system-arm`, the GNU Arm binutils, Renode 1.17.0, and for the board `st-flash`.  Each script's header states its checks, its options, and the other tools that it needs.
+The native drivers need CompCert 3.18's `ccomp` and `clightgen`, built from one source tree for the target, which the variables `CCOMP` and `CLIGHTGEN` name when they are not on the search path.  The bare-metal drivers also need `qemu-system-aarch64`, and the Cortex-M7 drivers `qemu-system-arm`, the GNU Arm binutils, Renode 1.17.0, and for the board `st-flash` 1.8.0, with libusb and the ST-LINK firmware V2J39M27 for the reset of `tools/baremetal/stlink_nrst.py`.  Each script's header states its checks, its options, and the other tools that it needs.
 
 ```sh
 tests/native/verified.sh              # the registry's modules in C, against Wasmtime
@@ -311,6 +319,7 @@ tests/isla/theorems.sh                # the model's forms against Isla's traces
 tests/baremetal/m7-image.sh           # the Cortex-M7 code images and their checks
 tests/baremetal/m7-qemu.sh gateway    # a Cortex-M7 image and its theorem under QEMU
 tests/baremetal/m7-board.sh check gateway # the board's image and its theorems
+tests/baremetal/m7-board.sh nrst sha DEVICE # an image on the board after an NRST reset
 tests/isla/m7-theorems.sh             # the Cortex-M7 forms against Isla's traces
 ```
 
